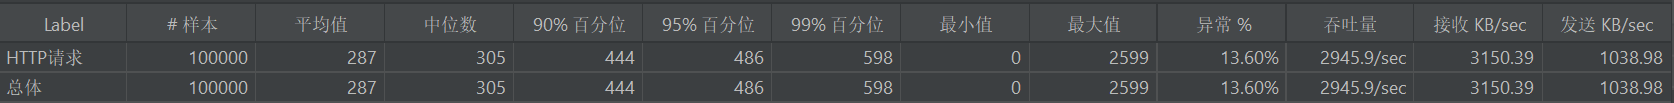
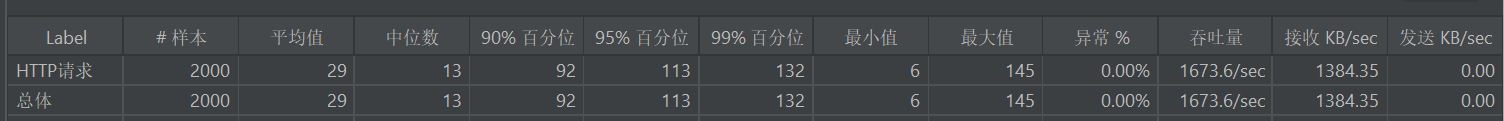
feat：调整gateway的httpclient参数，支持更大的并发

diff --git a/laokou-cloud/laokou-gateway/src/main/java/org/laokou/gateway/filter/AuthFilter.java b/laokou-cloud/laokou-gateway/src/main/java/org/laokou/gateway/filter/AuthFilter.java
@@ -57,6 +57,7 @@ import java.util.function.Function;
 
 import static org.laokou.common.i18n.common.Constant.*;
 import static org.laokou.common.i18n.common.StatusCode.UNAUTHORIZED;
+import static org.laokou.gateway.constant.Constant.CHUNKED;
 import static org.laokou.gateway.constant.Constant.OAUTH2_URI;
 import static org.laokou.gateway.utils.RequestUtil.pathMatcher;
 
@@ -176,7 +177,7 @@ public class AuthFilter implements GlobalFilter, Ordered, InitializingBean {
 					httpHeaders.setContentLength(contentLength);
 				}
 				else {
-					httpHeaders.set(HttpHeaders.TRANSFER_ENCODING, "chunked");
+					httpHeaders.set(HttpHeaders.TRANSFER_ENCODING, CHUNKED);
 				}
 				return httpHeaders;
 			}
@@ -195,7 +196,7 @@ public class AuthFilter implements GlobalFilter, Ordered, InitializingBean {
 		// 请查看 ConfigDataContextRefresher
 		log.info("配置文件更新通知");
 		uriMap = Optional.of(MapUtil.toUriMap(oAuth2ResourceServerProperties.getRequestMatcher().getIgnorePatterns(),
-				env.getProperty("spring.application.name")))
+				env.getProperty(SPRING_APPLICATION_NAME)))
 			.orElseGet(HashMap::new);
 	}
 

diff --git a/laokou-service/laokou-auth/laokou-auth-app/src/main/java/org/laokou/auth/module/oauth2/config/OAuth2ResourceServerConfig.java b/laokou-service/laokou-auth/laokou-auth-app/src/main/java/org/laokou/auth/module/oauth2/config/OAuth2ResourceServerConfig.java
@@ -34,8 +34,7 @@ import org.springframework.security.web.SecurityFilterChain;
 import java.util.*;
 
 import static org.laokou.auth.module.oauth2.config.OAuth2AuthorizationServerProperties.PREFIX;
-import static org.laokou.common.i18n.common.Constant.ENABLED;
-import static org.laokou.common.i18n.common.Constant.TRUE;
+import static org.laokou.common.i18n.common.Constant.*;
 
 /**
  * @author laokou
@@ -58,7 +57,7 @@ class OAuth2ResourceServerConfig {
 			OAuth2ResourceServerProperties oAuth2ResourceServerProperties, Environment env) throws Exception {
 		Map<String, Set<String>> uriMap = Optional
 			.of(MapUtil.toUriMap(oAuth2ResourceServerProperties.getRequestMatcher().getIgnorePatterns(),
-					env.getProperty("spring.application.name")))
+					env.getProperty(SPRING_APPLICATION_NAME)))
 			.orElseGet(HashMap::new);
 		return http
 			.headers(httpSecurityHeadersConfigurer -> httpSecurityHeadersConfigurer.httpStrictTransportSecurity(

diff --git a/laokou-common/laokou-common-security/src/main/java/org/laokou/common/security/config/auto/OAuth2ResourceServerAutoConfig.java b/laokou-common/laokou-common-security/src/main/java/org/laokou/common/security/config/auto/OAuth2ResourceServerAutoConfig.java
@@ -41,8 +41,7 @@ import org.springframework.security.web.SecurityFilterChain;
 import java.util.*;
 
 import static org.laokou.common.core.config.OAuth2ResourceServerProperties.PREFIX;
-import static org.laokou.common.i18n.common.Constant.ENABLED;
-import static org.laokou.common.i18n.common.Constant.TRUE;
+import static org.laokou.common.i18n.common.Constant.*;
 
 /**
  * 关闭OAuth2,请在yml配置spring.oauth2.resource-server.enabled=false
@@ -67,7 +66,7 @@ public class OAuth2ResourceServerAutoConfig {
 			throws Exception {
 		Map<String, Set<String>> uriMap = Optional
 			.of(MapUtil.toUriMap(oAuth2ResourceServerProperties.getRequestMatcher().getIgnorePatterns(),
-					env.getProperty("spring.application.name")))
+					env.getProperty(SPRING_APPLICATION_NAME)))
 			.orElseGet(HashMap::new);
 		return http
 			.headers(httpSecurityHeadersConfigurer -> httpSecurityHeadersConfigurer.httpStrictTransportSecurity(

diff --git a/laokou-cloud/laokou-gateway/src/main/java/com/alibaba/cloud/nacos/loadbalancer/NacosLoadBalancer.java b/laokou-cloud/laokou-gateway/src/main/java/com/alibaba/cloud/nacos/loadbalancer/NacosLoadBalancer.java
@@ -144,13 +144,13 @@ public class NacosLoadBalancer implements ReactorServiceInstanceLoadBalancer {
 		return chooseDefault(request);
 	}
 
-	private Mono<Response<ServiceInstance>> chooseDefault(Request request) {
+	private Mono<Response<ServiceInstance>> chooseDefault(Request<?> request) {
 		ServiceInstanceListSupplier supplier = serviceInstanceListSupplierProvider
 			.getIfAvailable(NoopServiceInstanceListSupplier::new);
 		return supplier.get(request).next().mapNotNull(this::getInstanceResponse);
 	}
 
-	private Mono<Response<ServiceInstance>> chooseIp(Request request) {
+	private Mono<Response<ServiceInstance>> chooseIp(Request<?> request) {
 		if (request.getContext() instanceof RequestDataContext context) {
 			String path = context.getClientRequest().getUrl().getPath();
 			if (RequestUtil.pathMatcher(HttpMethod.GET.name(), path,

diff --git a/laokou-common/laokou-common-prometheus/src/main/java/org/laokou/common/prometheus/config/auto/PrometheusAutoConfig.java b/laokou-common/laokou-common-prometheus/src/main/java/org/laokou/common/prometheus/config/auto/PrometheusAutoConfig.java
@@ -23,6 +23,8 @@ import org.springframework.boot.autoconfigure.AutoConfiguration;
 import org.springframework.context.annotation.Bean;
 import org.springframework.core.env.Environment;
 
+import static org.laokou.common.i18n.common.Constant.SPRING_APPLICATION_NAME;
+
 /**
  * @author laokou
  */
@@ -35,7 +37,7 @@ public class PrometheusAutoConfig {
 	@Bean
 	MeterRegistryCustomizer<MeterRegistry> configurer() {
 		return (registry) -> registry.config()
-			.commonTags("application", environment.getProperty("spring.application.name"));
+			.commonTags("application", environment.getProperty(SPRING_APPLICATION_NAME));
 	}
 
 }

diff --git a/laokou-common/laokou-common-dynamic-router/src/main/java/org/laokou/common/dynamic/router/utils/RouterUtil.java b/laokou-common/laokou-common-dynamic-router/src/main/java/org/laokou/common/dynamic/router/utils/RouterUtil.java
@@ -41,6 +41,8 @@ import java.util.List;
 import java.util.Map;
 import java.util.Objects;
 
+import static org.laokou.common.i18n.common.Constant.SPRING_APPLICATION_NAME;
+
 /**
  * @author laokou
  */
@@ -55,7 +57,7 @@ public class RouterUtil {
 
 	@SneakyThrows
 	public void initRouter() {
-		String appId = env.getProperty("spring.application.name");
+		String appId = env.getProperty(SPRING_APPLICATION_NAME);
 		Assert.isTrue(StringUtil.isNotEmpty(appId), " app id is empty");
 		Map<String, Object> dataMap = new HashMap<>(2);
 		String name = appId.substring(7);

diff --git a/laokou-common/laokou-common-mybatis-plus/src/main/java/org/laokou/common/mybatisplus/config/auto/MybatisPlusAutoConfig.java b/laokou-common/laokou-common-mybatis-plus/src/main/java/org/laokou/common/mybatisplus/config/auto/MybatisPlusAutoConfig.java
@@ -162,7 +162,7 @@ public class MybatisPlusAutoConfig {
 	}
 
 	private String getApplicationId(ConfigurableEnvironment environment) {
-		String name = environment.getProperty("spring.application.name");
+		String name = environment.getProperty(SPRING_APPLICATION_NAME);
 		return StringUtils.hasText(name) ? name : "application";
 	}
 

diff --git a/laokou-common/laokou-common-i18n/src/main/java/org/laokou/common/i18n/common/Constant.java b/laokou-common/laokou-common-i18n/src/main/java/org/laokou/common/i18n/common/Constant.java
@@ -311,4 +311,9 @@ public interface Constant {
 	 */
 	String WWW = "www";
 
+	/**
+	 * 应用名称
+	 */
+	String SPRING_APPLICATION_NAME = "spring.application.name";
+
 }

diff --git a/laokou-cloud/laokou-gateway/src/main/java/org/laokou/gateway/constant/Constant.java b/laokou-cloud/laokou-gateway/src/main/java/org/laokou/gateway/constant/Constant.java
@@ -36,4 +36,9 @@ public interface Constant {
 	 */
 	String ERROR = "error";
 
+	/**
+	 * 分块
+	 */
+	String CHUNKED = "chunked";
+
 }

diff --git a/性能测试.md b/性能测试.md
@@ -1,11 +1,14 @@
- -Xmx256m   
+-Xmx256m   
 -Xms256m 
 
-10w请求（1000个线程）  
+2k并发请求
 <img src="doc/image/c1.png" alt="暂无图片">
 
-50w请求（1000个线程）  
+3k并发请求
 <img src="doc/image/c2.png" alt="暂无图片">
 
-100w请求（1000个线程）  
+4k并发请求
 <img src="doc/image/c3.png" alt="暂无图片">
+
+5k并发请求
+<img src="doc/image/c4.png" alt="暂无图片">
